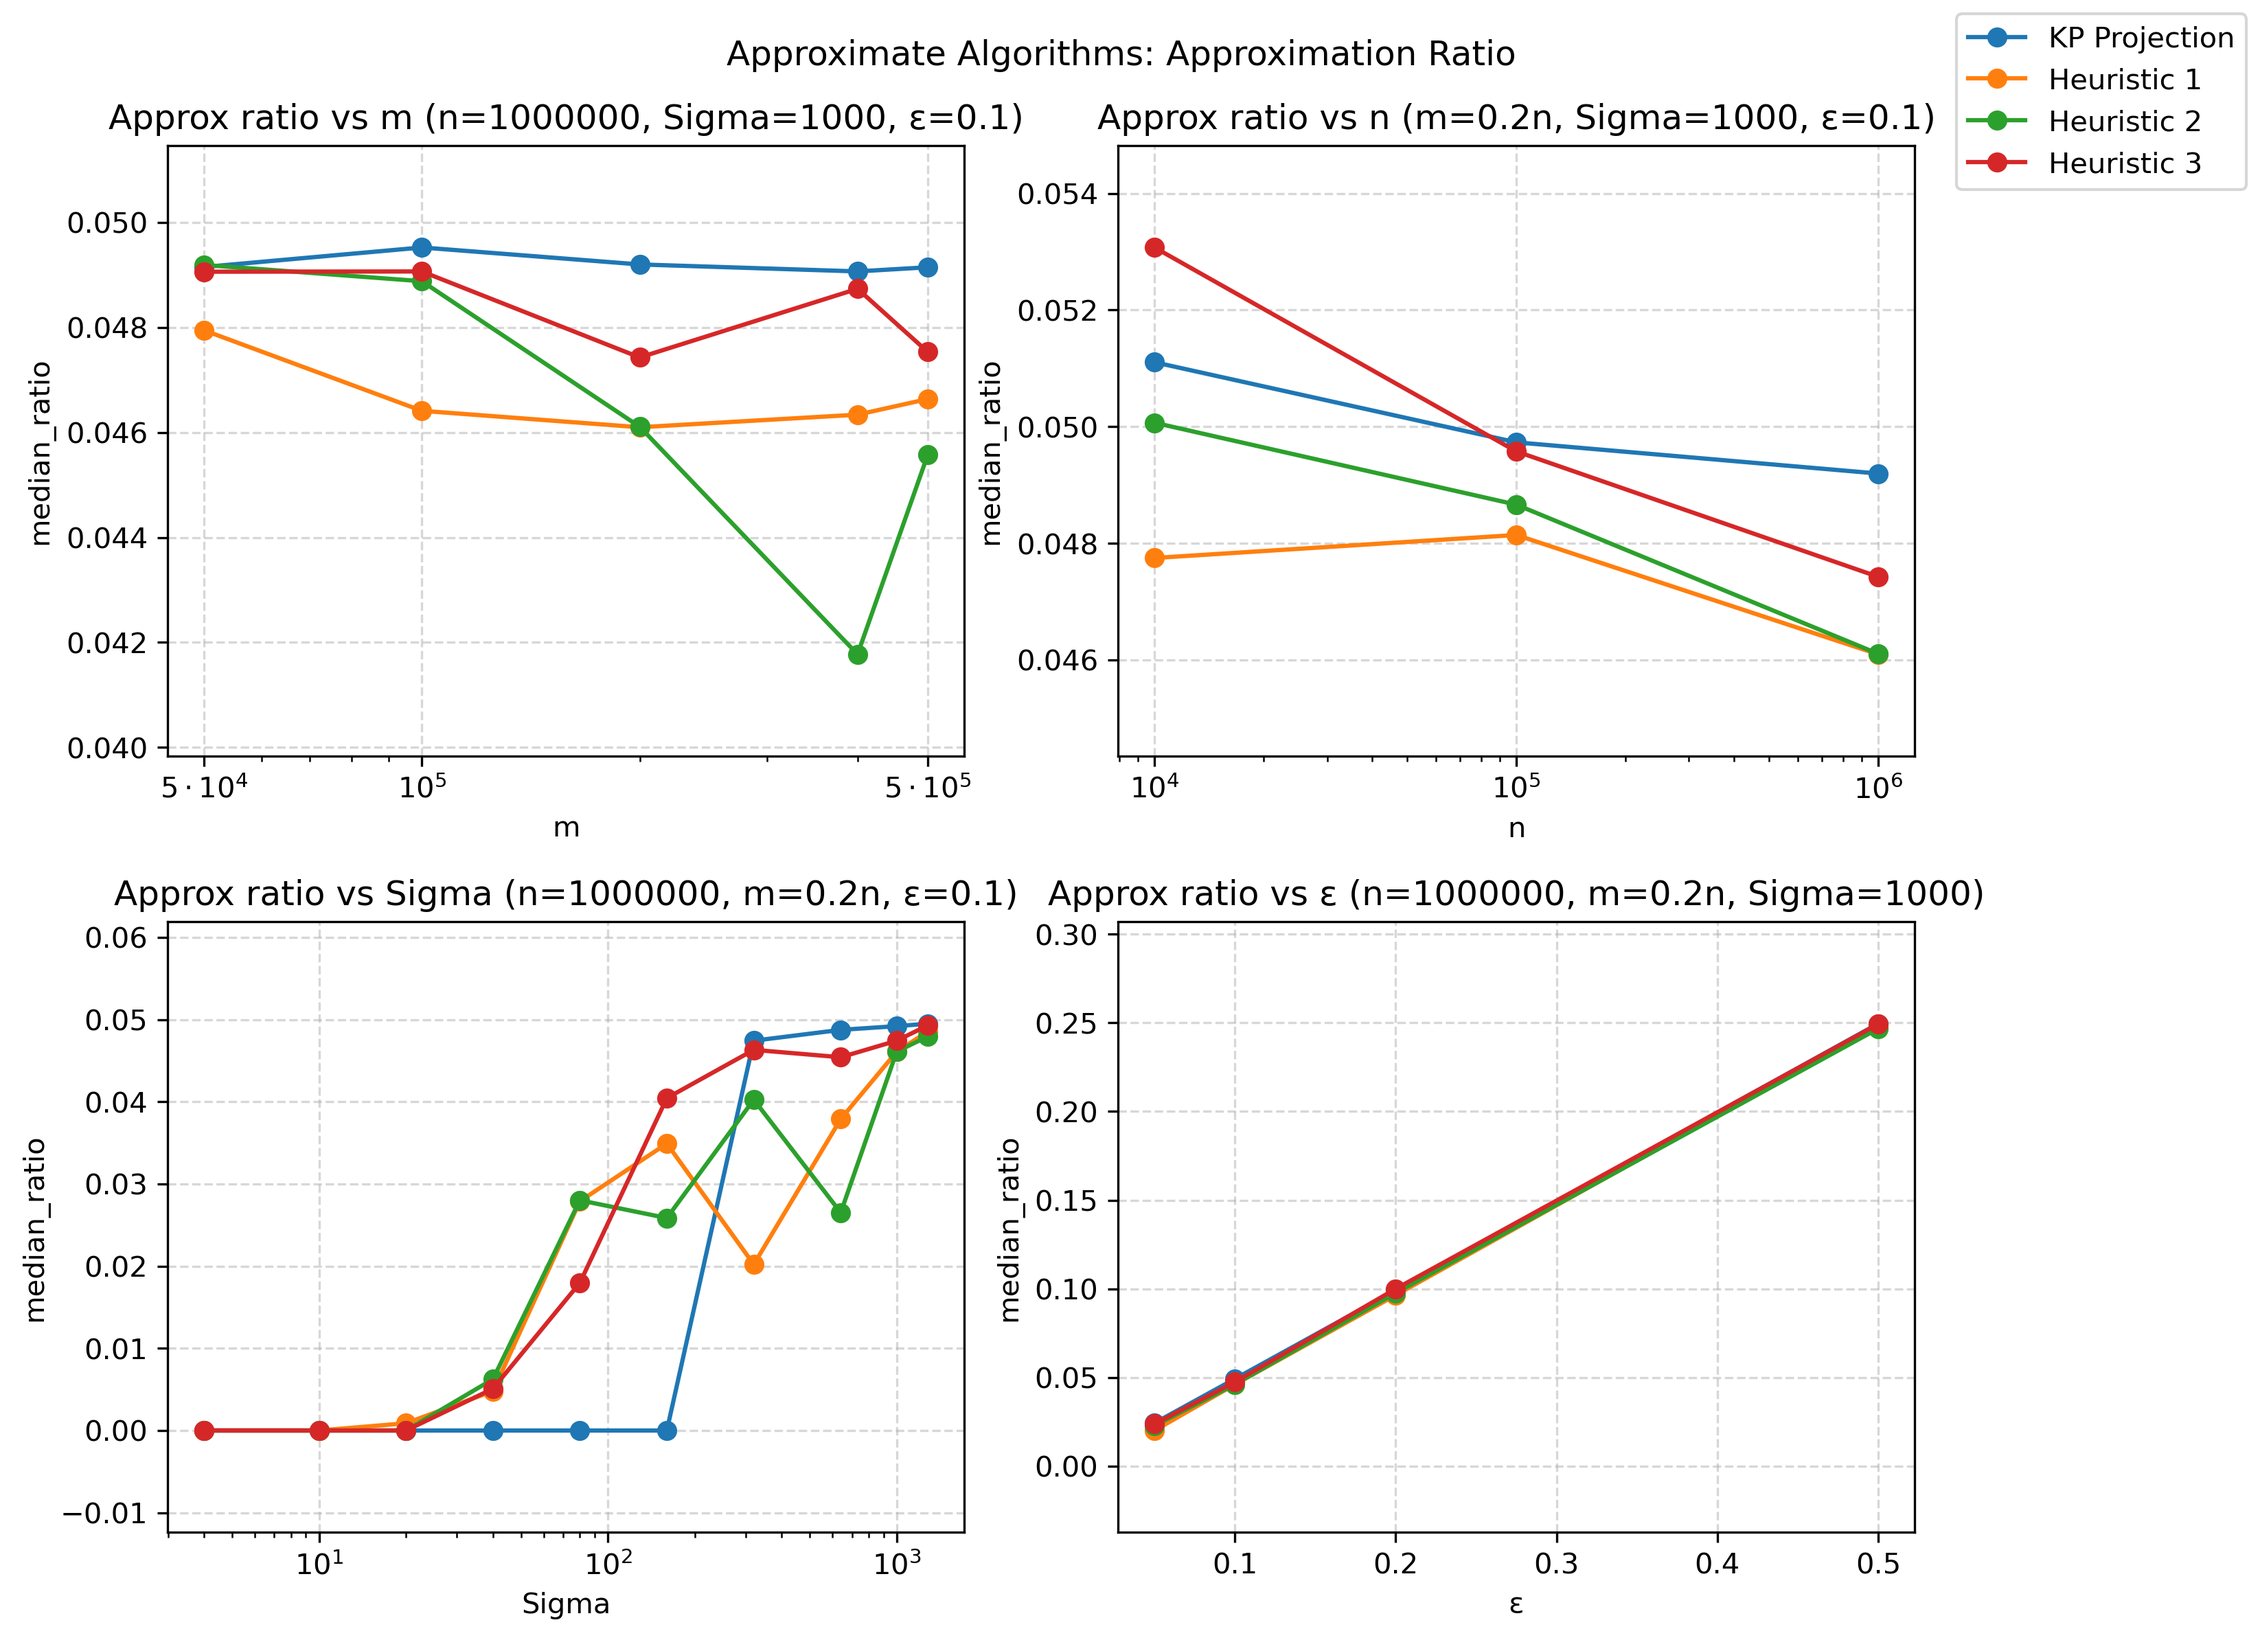
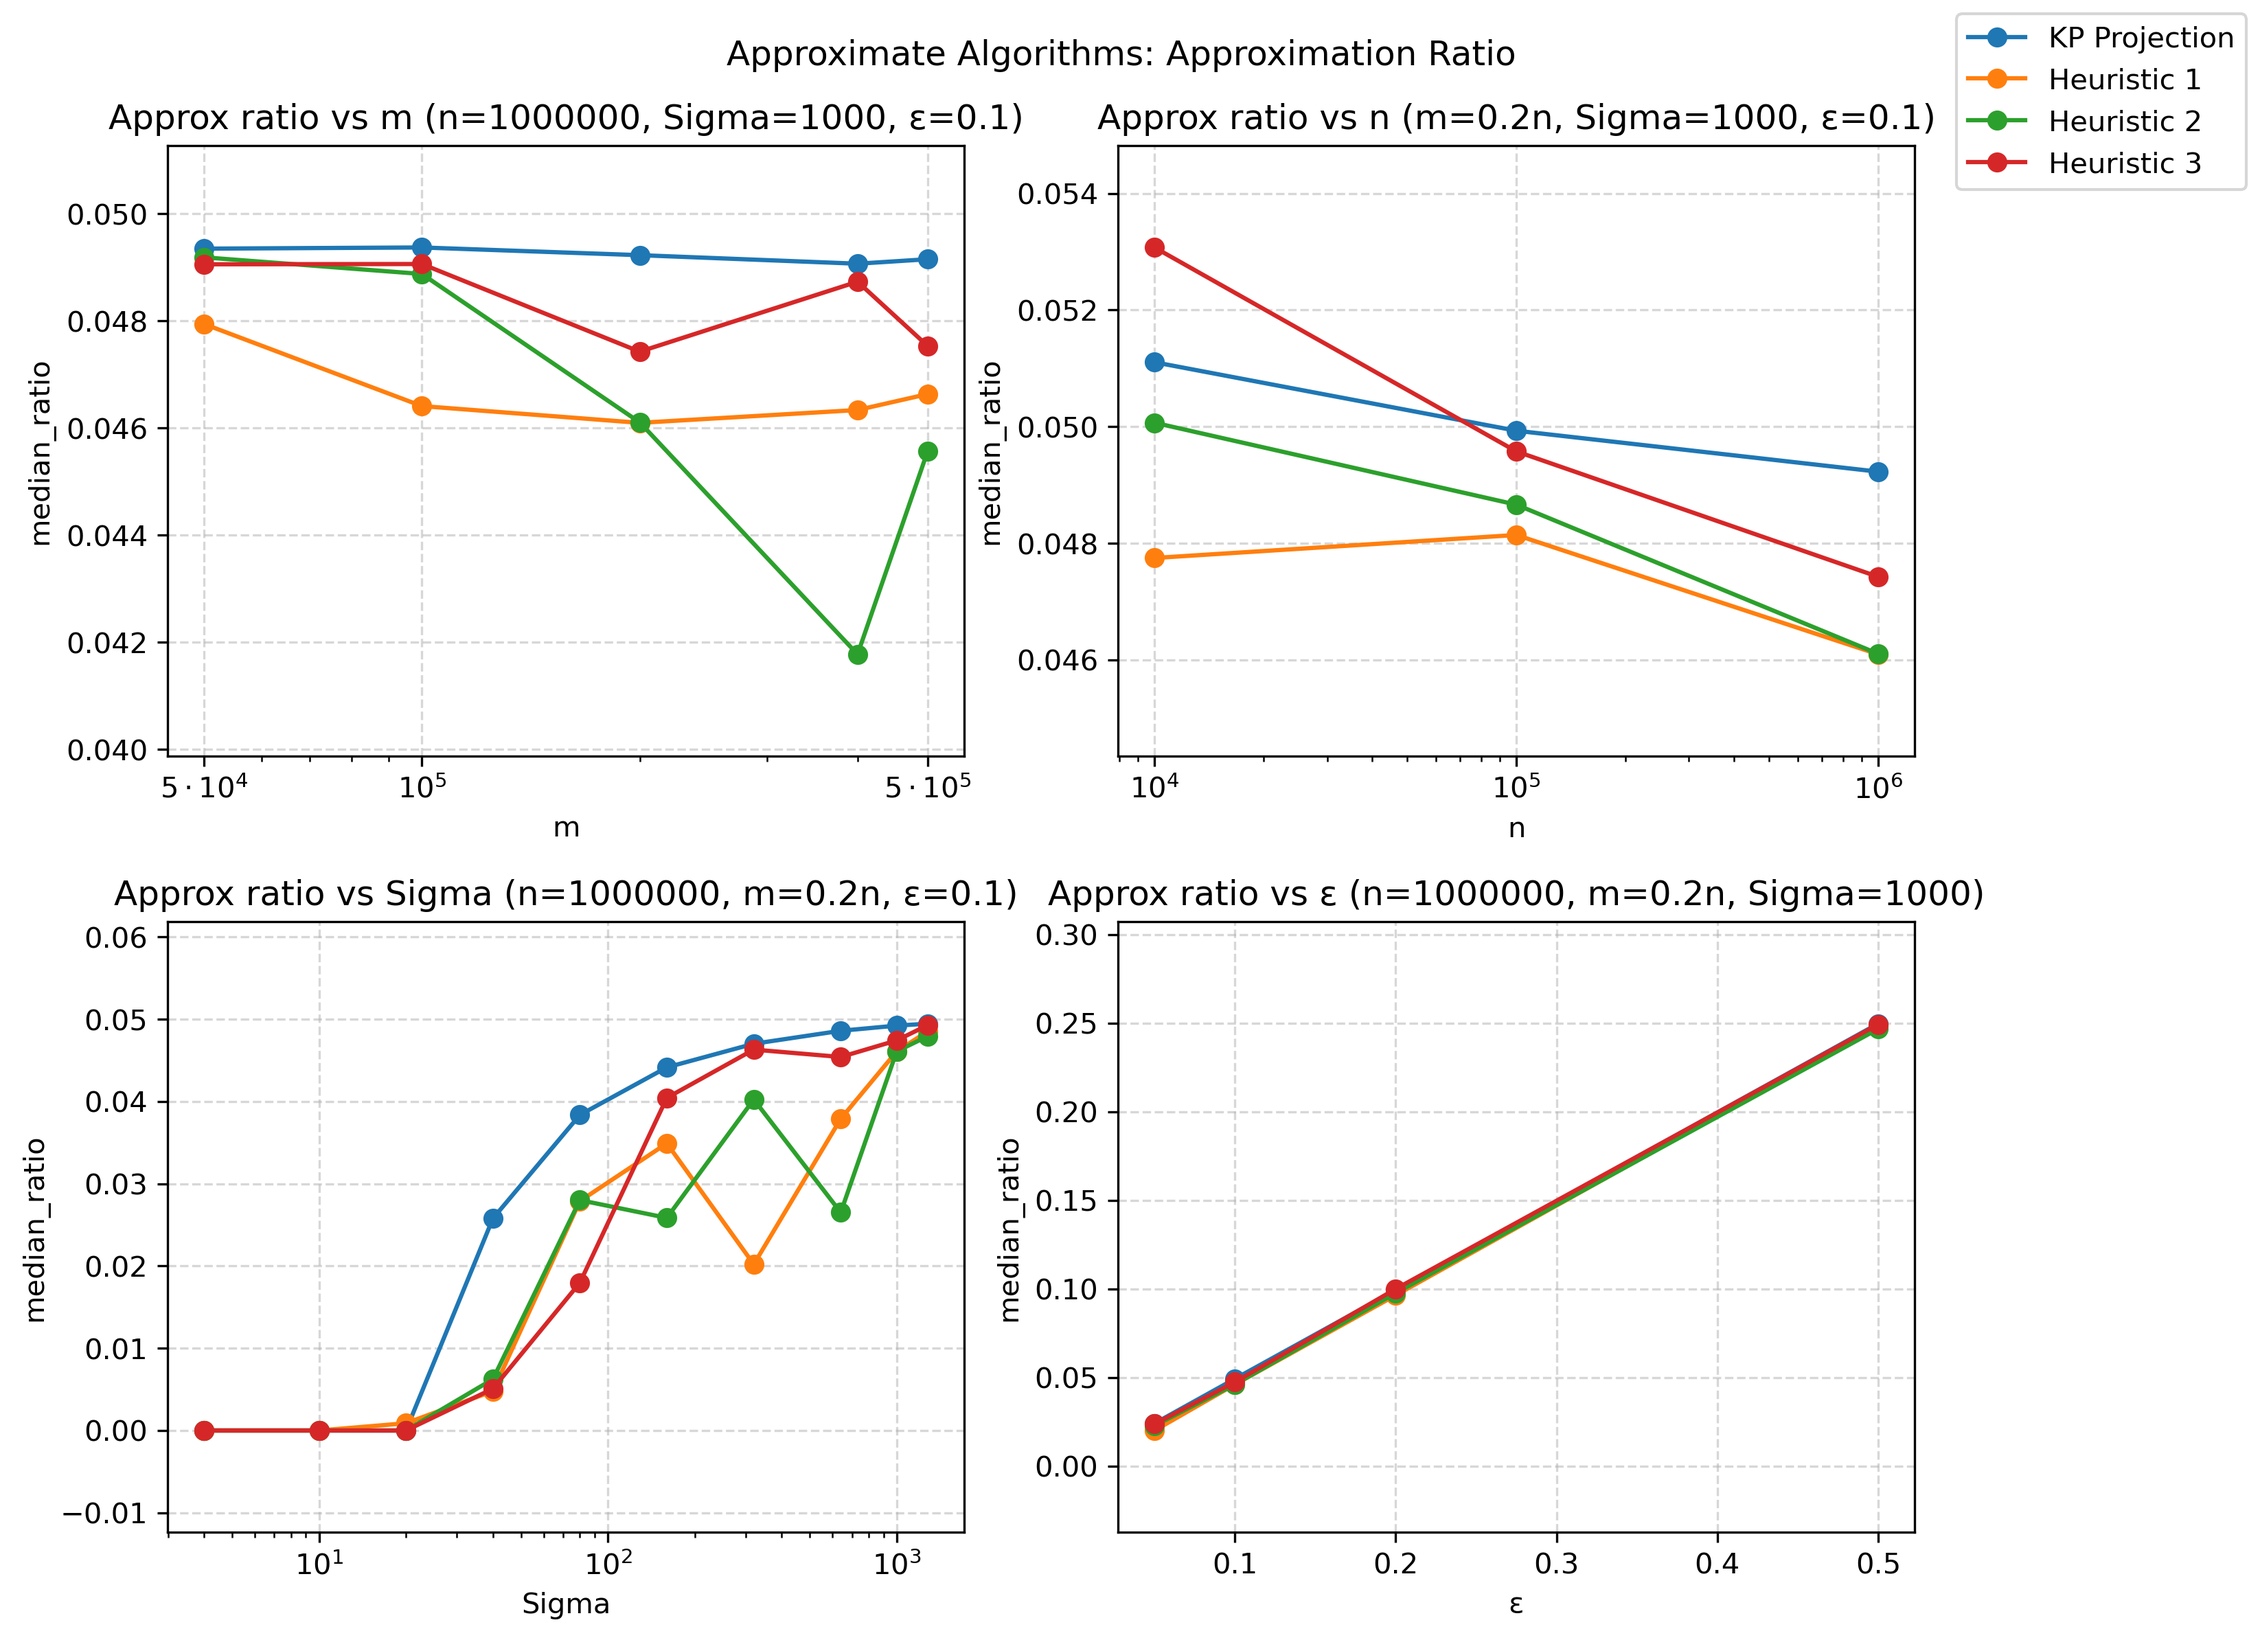
reran skewed test

diff --git a/src/ham_dist_proj.cpp b/src/ham_dist_proj.cpp
@@ -15,10 +15,10 @@ void ham_dist_proj(int n, int m, int sigma, double eps,
     double c = 0.5; // run c * log n times
     int num_its = c * ceil(log2(n));
 
-    if(num_its * reduced_sigma >= sigma){
-        reduced_sigma = sigma;
-        num_its = 1;
-    }
+    // if(num_its * reduced_sigma >= sigma){
+    //     reduced_sigma = sigma;
+    //     num_its = 1;
+    // }
     // int num_its = 1;
 
     vector<uint32_t> binA(n), binB(m), binOut(n+m-1), aggBinOut(n-m+1); // scratch arrays to run FFT on

diff --git a/src/ham_dist_proj_sc.cpp b/src/ham_dist_proj_sc.cpp
@@ -15,10 +15,10 @@ void ham_dist_proj_sc(int n, int m, int sigma, double eps,
     double c = 2; // run c * log n times
     int planned_its = c * ceil(log2(n));
 
-    // if(ceil(2/eps) >= sigma){
-    //     reduced_sigma = sigma;
-    //     planned_its = 1;
-    // }
+    if(ceil(2/eps) >= sigma){
+        reduced_sigma = sigma;
+        planned_its = 1;
+    }
 
     vector<uint32_t> binA(n), binB(m), binOut(n+m-1), aggBinOut(n-m+1); // scratch arrays to run FFT on
 

diff --git a/src/plotting_new.py b/src/plotting_new.py
@@ -15,6 +15,7 @@ name_map = {
     "Heuristic 3: sum(weighted_bucket_mass)^2": "Heuristic 3",
     "Brute force": "Brute Force",
     "Sqrt": "Sqrt",
+    "Projection to 2/eps alphabet with short circuit": "KP w/ Short Circuit",
 }
 
 df["short_name"] = df["algo_name"].map(name_map)

diff --git a/src/testing_framework.cpp b/src/testing_framework.cpp
@@ -19,7 +19,7 @@ int num_rounds;
 const int SEED = 430298584;
 mt19937 alg_rng(SEED);
 
-const int NUM_ALGORITHMS = 6;
+const int NUM_ALGORITHMS = 7;
 const bool SKEWED = true; // whether to generate skewed test case
 const double BIG_PROB = 0.8;
 
